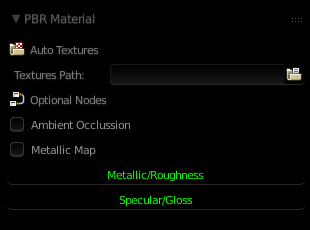
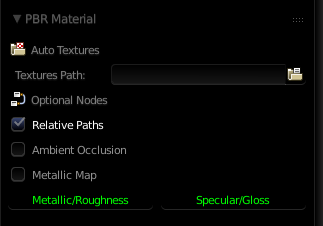
Default open file path set to auto textures path
Relative Paths Added to Options
Screenshots updated.

diff --git a/__init__.py b/__init__.py
@@ -20,7 +20,7 @@ bl_info = {
     "name": "PBR",
 	"description": "PBR Workflow Tools",
 	"author": "Digiography.Studio",
-	"version": (1, 2, 0),
+	"version": (1, 5, 0),
     "blender": (2, 79, 0),
 	"location": "Properties > Material > PBR Material",
 	"wiki_url":    "https://github.com/Digiography/blender_addon_pbr/wiki",
@@ -192,7 +192,7 @@ class ds_pbr_nodes_metallic_roughness(Operator):
         node.color_space = 'NONE'
         node.name='ds_pbr_texture_normal'
         _material_links.new(node.outputs['Color'], node_map.inputs['Color'])
-
+    
         ds_pbr_auto_textures.execute(self,context)
 
         return {'FINISHED'}
@@ -297,6 +297,11 @@ class ds_pbr_addon_prefs(AddonPreferences):
         description="Add Metaliic Map Node",
         default = False
     )
+    option_relative = BoolProperty(
+        name="Relative Paths",
+        description="Use Relative Paths for images.",
+        default = True
+    )
     option_metallic = FloatProperty(
         name = "Metaliic",
         description = "A float property",
@@ -311,13 +316,14 @@ class ds_pbr_addon_prefs(AddonPreferences):
         min = 0.000,
         max = 1.000
     )
-
+    
     def draw(self, context):
 
         layout = self.layout
 
         layout.label('Defaults',icon='PREFERENCES')
         
+        layout.prop(self, 'option_relative')
         layout.prop(self, 'option_ao_map')
         layout.prop(self, 'option_metallic_map')
         layout.prop(self, 'option_metallic')
@@ -339,6 +345,13 @@ class ds_pbr_material_options(PropertyGroup):
     def set_option_metallic_map(self, value):
         self["_option_metallic_map"] = value
 
+    def get_option_relative(self):
+        if "_option_relative" not in self:
+            self["_option_relative"]=bpy.context.user_preferences.addons[__name__].preferences.option_relative
+        return self["_option_relative"]
+    def set_option_relative(self, value):
+        self["_option_relative"] = value
+
     option_ao_map = BoolProperty(
         name="Ambient Occlusion",
         description="Add Ambient Occlusion Map via RGB Mix Node",
@@ -351,8 +364,14 @@ class ds_pbr_material_options(PropertyGroup):
         get = get_option_metallic_map,
         set = set_option_metallic_map
     )
+    option_relative = BoolProperty(
+        name="Relative Paths",
+        description="Use Relative Paths for images.",
+        get = get_option_relative,
+        set = set_option_relative
+    )
     textures_path = StringProperty(
-            name="Textures Path",
+            name="Auto Textures Path",
             subtype='DIR_PATH',
     )        
     option_nodes_type = StringProperty(
@@ -360,6 +379,141 @@ class ds_pbr_material_options(PropertyGroup):
         description="Nodes Type",
         default = ''
     )
+    
+class ds_pbr_texture_base_color(bpy.types.Operator):
+    bl_idname = "ds_pbr.base_color"
+    bl_label = "Base Color"
+    filepath = bpy.props.StringProperty(subtype="FILE_PATH")
+    bl_context = "material"
+
+    option_relative = bpy.props.BoolProperty(name="Relative")
+
+    def execute(self, context):
+        _nodes = context.material.node_tree.nodes
+        if self.option_relative==True:
+            _filepath=bpy.path.relpath(self.filepath)
+        else:
+            _filepath=bpy.path.abspath(self.filepath)
+        _nodes['ds_pbr_texture_base_color'].image=bpy.data.images.load(_filepath)
+        return {'FINISHED'}
+
+    def invoke(self, context, event):
+        if not self.filepath and context.material.ds_pbr_material_options.textures_path:
+            self.filepath = context.material.ds_pbr_material_options.textures_path
+        self.option_relative=context.material.ds_pbr_material_options.option_relative
+        context.window_manager.fileselect_add(self)
+        return {'RUNNING_MODAL'}
+
+class ds_pbr_texture_normal(bpy.types.Operator):
+    bl_idname = "ds_pbr.texture_normal"
+    bl_label = "Normal"
+    filepath = bpy.props.StringProperty(subtype="FILE_PATH")
+    bl_context = "material"
+
+    option_relative = bpy.props.BoolProperty(name="Relative")
+
+    def execute(self, context):
+        _nodes = context.material.node_tree.nodes
+        if self.option_relative==True:
+            _filepath=bpy.path.relpath(self.filepath)
+        else:
+            _filepath=bpy.path.abspath(self.filepath)
+        _nodes['ds_pbr_texture_normal'].image=bpy.data.images.load(_filepath)
+        return {'FINISHED'}
+
+    def invoke(self, context, event):
+        if not self.filepath and context.material.ds_pbr_material_options.textures_path:
+            self.filepath = context.material.ds_pbr_material_options.textures_path
+        self.option_relative=context.material.ds_pbr_material_options.option_relative
+        context.window_manager.fileselect_add(self)
+        return {'RUNNING_MODAL'}
+
+class ds_pbr_texture_ao(bpy.types.Operator):
+    bl_idname = "ds_pbr.texture_ao"
+    bl_label = "Ambient Occlusion"
+    filepath = bpy.props.StringProperty(subtype="FILE_PATH")
+    bl_context = "material"
+
+    option_relative = bpy.props.BoolProperty(name="Relative")
+
+    def execute(self, context):
+        _nodes = context.material.node_tree.nodes
+        if self.option_relative==True:
+            _filepath=bpy.path.relpath(self.filepath)
+        else:
+            _filepath=bpy.path.abspath(self.filepath)
+        _nodes['ds_pbr_texture_ao'].image=bpy.data.images.load(_filepath)
+        return {'FINISHED'}
+
+    def invoke(self, context, event):
+        if not self.filepath and context.material.ds_pbr_material_options.textures_path:
+            self.filepath = context.material.ds_pbr_material_options.textures_path
+        self.option_relative=context.material.ds_pbr_material_options.option_relative
+        context.window_manager.fileselect_add(self)
+        return {'RUNNING_MODAL'}
+
+class ds_pbr_texture_metallic(bpy.types.Operator):
+    bl_idname = "ds_pbr.texture_metallic"
+    bl_label = "Metallic"
+    bl_context = "material"
+
+    filepath = bpy.props.StringProperty(subtype="FILE_PATH")
+    option_relative = bpy.props.BoolProperty(name="Relative")
+
+    def execute(self, context):
+        _nodes = context.material.node_tree.nodes
+        if self.option_relative==True:
+            _filepath=bpy.path.relpath(self.filepath)
+        else:
+            _filepath=bpy.path.abspath(self.filepath)
+        _nodes['ds_pbr_texture_metallic'].image=bpy.data.images.load(_filepath)
+        return {'FINISHED'}
+
+    def invoke(self, context, event):
+        if not self.filepath and context.material.ds_pbr_material_options.textures_path:
+            self.filepath = context.material.ds_pbr_material_options.textures_path
+        self.option_relative=context.material.ds_pbr_material_options.option_relative
+        context.window_manager.fileselect_add(self)
+        return {'RUNNING_MODAL'}
+
+class ds_pbr_texture_roughness(bpy.types.Operator):
+    bl_idname = "ds_pbr.texture_roughness"
+    bl_label = "Roughness"
+    filepath = bpy.props.StringProperty(subtype="FILE_PATH")
+    bl_context = "material"
+    option_relative = bpy.props.BoolProperty(name="Relative")
+
+    def execute(self, context):
+        _nodes = context.material.node_tree.nodes
+        if self.option_relative==True:
+            _filepath=bpy.path.relpath(self.filepath)
+        else:
+            _filepath=bpy.path.abspath(self.filepath)
+        _nodes['ds_pbr_texture_roughness'].image=bpy.data.images.load(_filepath)
+        return {'FINISHED'}
+
+    def invoke(self, context, event):
+        if not self.filepath and context.material.ds_pbr_material_options.textures_path:
+            self.filepath = context.material.ds_pbr_material_options.textures_path
+        self.option_relative=context.material.ds_pbr_material_options.option_relative
+        context.window_manager.fileselect_add(self,)
+        return {'RUNNING_MODAL'}
+
+class ds_pbr_render_cycles(bpy.types.Operator):
+    bl_idname = "ds_pbr.render_cycles"
+    bl_label = "CYCLES"
+    bl_context = "scene"
+    def execute(self, context):
+        bpy.context.scene.render.engine='CYCLES'
+        return {'FINISHED'}
+
+class ds_pbr_render_game(bpy.types.Operator):
+    bl_idname = "ds_pbr.render_game"
+    bl_label = "BLENDER_GAME"
+    bl_context = "scene"
+    def execute(self, context):
+        bpy.context.scene.render.engine='BLENDER_GAME'
+        return {'FINISHED'}
 
 class ds_pbr_material(Panel):
 
@@ -385,50 +539,92 @@ class ds_pbr_material(Panel):
 
             layout.label('Textures',icon='IMASEL')
 
-            split = layout.split(0.30)
-            split.label('Base Color')
-            split.template_ID(_nodes['ds_pbr_texture_base_color'], 'image', open='image.open')
+            row = layout.row(align=True)
+            col = row.split(percentage=0.3)
+            col.label(ds_pbr_texture_base_color.bl_label)
+            if _nodes['ds_pbr_texture_base_color'].image:
+                col.template_ID(_nodes['ds_pbr_texture_base_color'], "image", "image.open")
+            else:
+                col.operator(ds_pbr_texture_base_color.bl_idname, icon="FILE_FOLDER",text="Select Image")
 
-            if (_ds_pbr_material_options.option_metallic_map == True):
+            if (_ds_pbr_material_options.option_metallic_map == True and 'ds_pbr_texture_metallic' in _nodes):
 
-                if ('ds_pbr_texture_metallic' in _nodes):
-
-                    split = layout.split(0.30)
-                    split.label('Metallic')
-                    split.template_ID(_nodes['ds_pbr_texture_metallic'], 'image', open='image.open')
+                row = layout.row(align=True)
+                col = row.split(percentage=0.3)
+                col.label(ds_pbr_texture_metallic.bl_label)
+                
+                if _nodes['ds_pbr_texture_metallic'].image:
+                    col.template_ID(_nodes['ds_pbr_texture_metallic'], "image", "image.open")
+                else:
+                    col.operator(ds_pbr_texture_metallic.bl_idname, icon="FILE_FOLDER",text="Select Image")
 
             if (_ds_pbr_material_options.option_ao_map == True):
 
+                row = layout.row(align=True)
+                col = row.split(percentage=0.3)
+                col.label(ds_pbr_texture_ao.bl_label)
                 if ('ds_pbr_texture_ao' in _nodes):
+                    if _nodes['ds_pbr_texture_ao'].image:
+                        col.template_ID(_nodes['ds_pbr_texture_ao'], "image", "image.open")
+                    else:
+                        col.operator(ds_pbr_texture_ao.bl_idname, icon="FILE_FOLDER",text="Select Image")
 
-                    split = layout.split(0.30)
-                    split.label('Ambient Occulussion')
-                    split.template_ID(_nodes['ds_pbr_texture_ao'], 'image', open='image.open')
+            row = layout.row(align=True)
+            col = row.split(percentage=0.3)
+            col.label(ds_pbr_texture_normal.bl_label)
+            if _nodes['ds_pbr_texture_normal'].image:
+                col.template_ID(_nodes['ds_pbr_texture_normal'], "image", "image.open")
+            else:
+                col.operator(ds_pbr_texture_normal.bl_idname, icon="FILE_FOLDER",text="Select Image")
+ 
+            row = layout.row(align=True)
+            col = row.split(percentage=0.3)
+            col.label(ds_pbr_texture_roughness.bl_label)
+            if _nodes['ds_pbr_texture_roughness'].image:
+                col.template_ID(_nodes['ds_pbr_texture_roughness'], "image", "image.open")
+            else:
+                col.operator(ds_pbr_texture_roughness.bl_idname, icon="FILE_FOLDER",text="Select Image")
 
-            split = layout.split(0.30)
-            split.label('Normal')
-            split.template_ID(_nodes['ds_pbr_texture_normal'], 'image', open='image.open')
+        layout.label('Options',icon='NODETREE')
 
-            split = layout.split(0.30)
-            split.label('Roughness')
-            split.template_ID(_nodes['ds_pbr_texture_roughness'], 'image', open='image.open')
-        
-        layout.label('Auto Textures',icon='IMASEL')
         layout.prop(_ds_pbr_material_options, "textures_path")
+        layout.prop(_ds_pbr_material_options, "option_relative")
+
+        if not bpy.data.filepath and _ds_pbr_material_options.option_relative == True:
+            layout.label('Blender file not saved. Required for relative paths.',icon='INFO')
 
         layout.label('Optional Nodes',icon='NODETREE')
 
         layout.prop(_ds_pbr_material_options, "option_ao_map")
         layout.prop(_ds_pbr_material_options, "option_metallic_map")
+        
+        
+        if (bpy.context.scene.render.engine != 'CYCLES' and bpy.context.scene.render.engine != 'BLENDER_GAME'):
+                
+                layout.label('Cycles or Blender Game Render Engine required for PBR','INFO')
+                row = layout.row(align=True)
+                col = row.split(percentage=0.5)
+                col.operator('ds_pbr.render_cycles')
+                col.operator('ds_pbr.render_game')
 
-        layout.operator("ds_pbr.nodes_metallic_roughness")
-        layout.operator("ds_pbr.nodes_specular_gloss")
+        row = layout.row(align=True)
+        col = row.split(percentage=0.5)
+        col.operator("ds_pbr.nodes_metallic_roughness")
+        col.operator("ds_pbr.nodes_specular_gloss")
 
         layout.separator()
 
 def register():
 
     from bpy.utils import register_class
+
+    register_class(ds_pbr_render_cycles)
+    register_class(ds_pbr_render_game)
+    register_class(ds_pbr_texture_base_color)
+    register_class(ds_pbr_texture_normal)
+    register_class(ds_pbr_texture_ao)
+    register_class(ds_pbr_texture_metallic)
+    register_class(ds_pbr_texture_roughness)
 
     register_class(ds_pbr_addon_prefs)
     register_class(ds_pbr_material_options)
@@ -443,6 +639,14 @@ def register():
 def unregister():
 
     from bpy.utils import unregister_class
+
+    unregister_class(ds_pbr_render_cycles)
+    unregister_class(ds_pbr_render_game)
+    unregister_class(ds_pbr_texture_base_color)
+    unregister_class(ds_pbr_texture_normal)
+    unregister_class(ds_pbr_texture_ao)
+    unregister_class(ds_pbr_texture_metallic)
+    unregister_class(ds_pbr_texture_roughness)
 
     unregister_class(ds_pbr_addon_prefs)
     unregister_class(ds_pbr_material_options)
